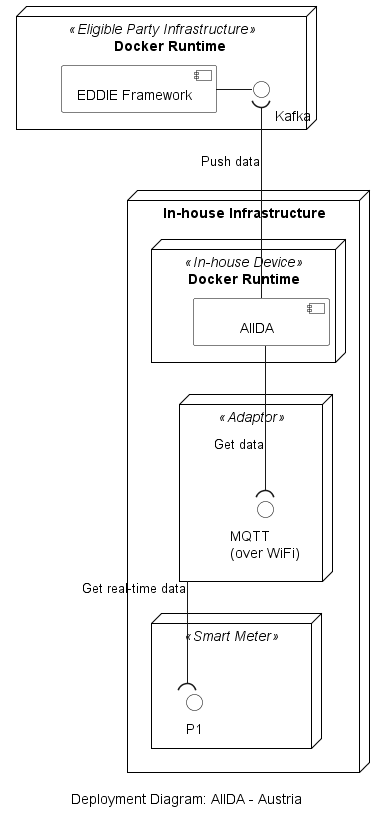
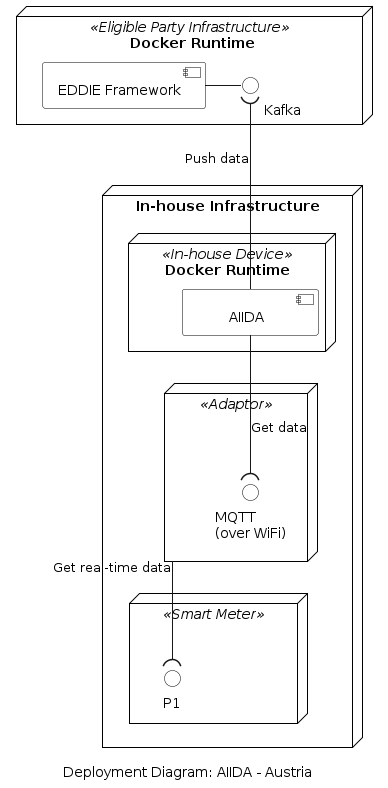
Improve aiida - austria deployment diagram

diff --git a/arc42/05-building-block-view/components/AIIDA/AIIDA-austria/AIIDA-austria.md b/arc42/05-building-block-view/components/AIIDA/AIIDA-austria/AIIDA-austria.md
@@ -5,13 +5,13 @@ title: Austria
 In Austria, AIIDA is deployed as depicted in the following figure.
 
 <div align="center">
-<img src="./figures/deployment-diagram-aiida-austria.png" width="500">
+<img src="./figures/deployment-diagram-aiida-austria.svg">
 </div>
 
 As shown in the figure, an additional device named the Adaptor is used. The adaptor is a device that attaches to the Smart Meter to simplify the acquisition of real-time consumption data. The specification of the utilized adaptor is described [here](https://oesterreichsenergie.at/fileadmin/user_upload/Oesterreichs_Energie/Publikationsdatenbank/Leitfaden/2022/Datenblatt_Smart_Meter_Adapter_V7_20220808.pdf). The adaptor collects the real-time consumption data via the P1 interface and transmits this data to AIIDA over WiFI via the MQTT protocol. The adaptor is configurable via a Web Interface as shown below.
 
 <div align="center">
-<img src="./figures/adaptor-austria.png" width="500">
+<img src="./figures/adaptor-austria.png">
 </div>
 
 The energy consumption data that is sent to AIIDA is formatted using JSON as shown below:
